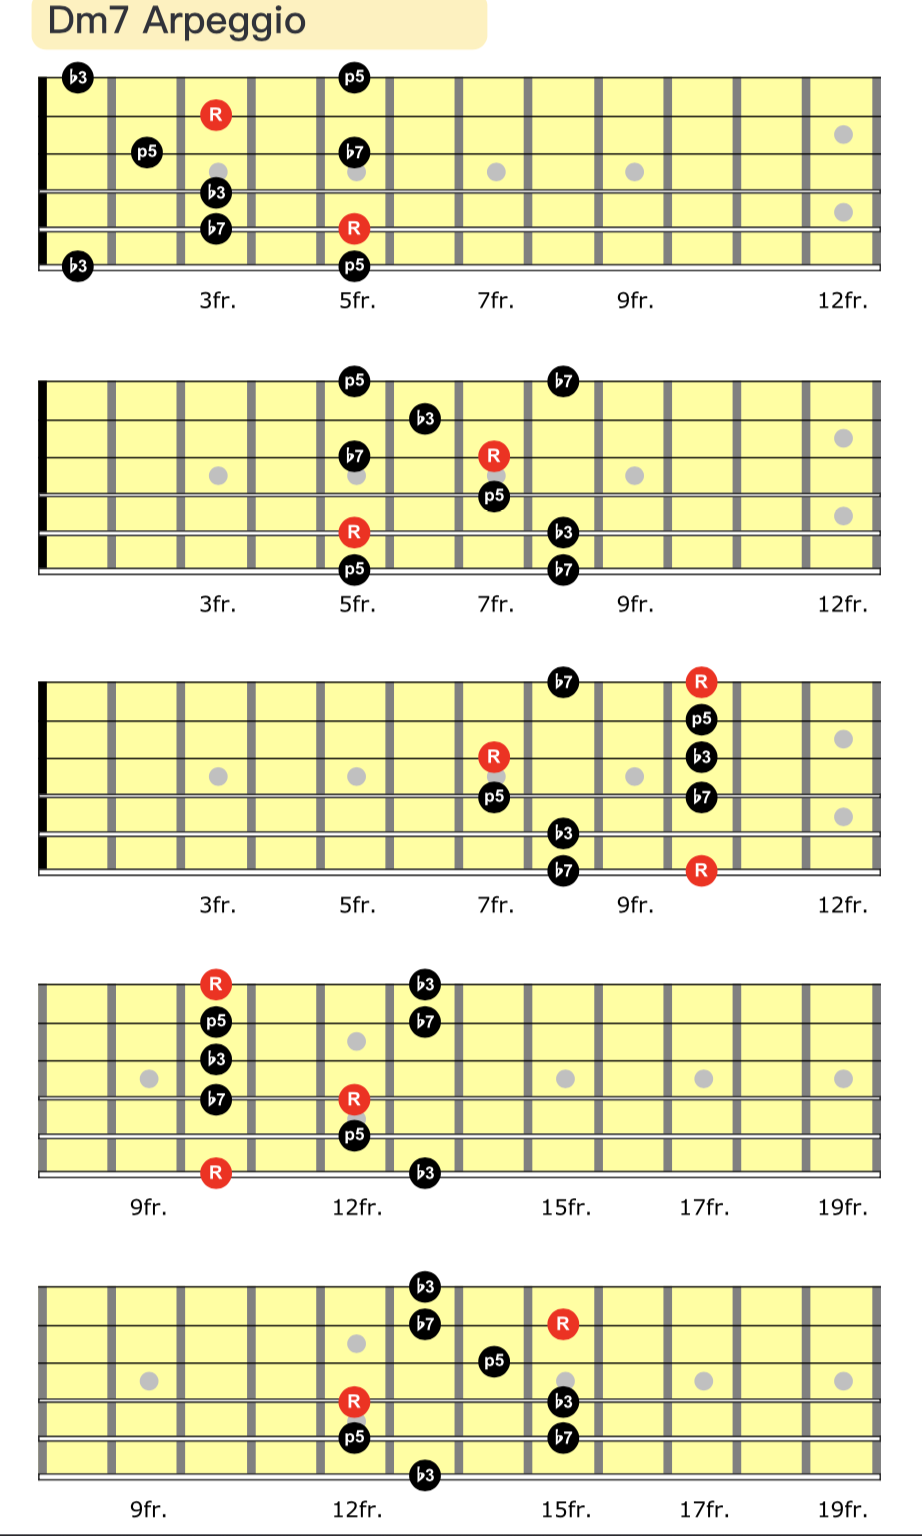
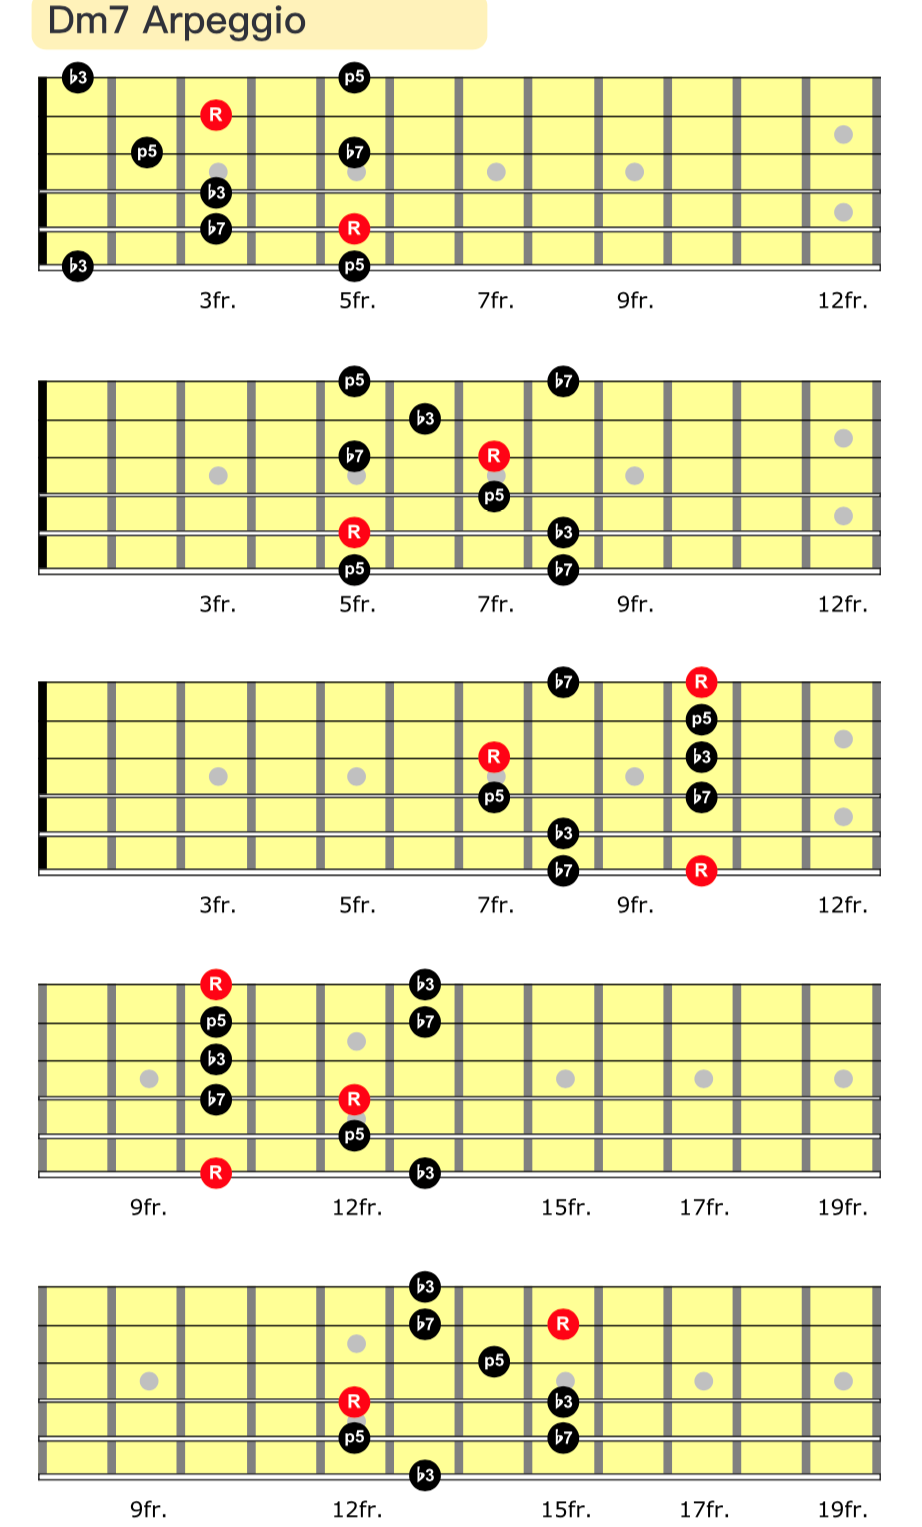
2

diff --git a/p/所有音阶和弦琶音素材/index.html b/p/所有音阶和弦琶音素材/index.html
@@ -1,18 +1,18 @@
 <!DOCTYPE html>
 <html lang="zh-cn" dir="ltr">
     <head><meta charset='utf-8'>
-<meta name='viewport' content='width=device-width, initial-scale=1'><meta name='description' content="\r📖 目录（点击展开）\r音阶\nMajor（大调音阶） Minor（自然小调音阶） Dorian Jazz Minor（爵士旋律小调音阶） Harmonic Minor（和声小调） 琶音\nMajor（大三和弦） Minor（小三和弦） Major 7（大七和弦） Minor 7（小七和弦） Dominant 7（属七和弦） ⌀7（半减七和弦） Major 素材 和弦 音阶 琶音 ">
+<meta name='viewport' content='width=device-width, initial-scale=1'><meta name='description' content="\r📖 目录（点击展开）\r音阶\nMajor（大调音阶） Minor（自然小调音阶） Dorian Jazz Minor（爵士旋律小调音阶） Harmonic Minor（和声小调） 琶音\nMajor（大三和弦） Minor（小三和弦） Major 7（大七和弦） Minor 7（小七和弦） Dominant 7（属七和弦） ⌀7（半减七和弦） Major 素材 和弦 音阶 ">
 <title>所有音阶、和弦、琶音素材</title>
 
 <link rel='canonical' href='https://xiaoweihome.github.io/p/%E6%89%80%E6%9C%89%E9%9F%B3%E9%98%B6%E5%92%8C%E5%BC%A6%E7%90%B6%E9%9F%B3%E7%B4%A0%E6%9D%90/'>
 
 <link rel="stylesheet" href="/scss/style.min.f91c16411405e1fc5da08861fe7cf176ce361269bd69c3b7428065036933611e.css"><meta property='og:title' content="所有音阶、和弦、琶音素材">
-<meta property='og:description' content="\r📖 目录（点击展开）\r音阶\nMajor（大调音阶） Minor（自然小调音阶） Dorian Jazz Minor（爵士旋律小调音阶） Harmonic Minor（和声小调） 琶音\nMajor（大三和弦） Minor（小三和弦） Major 7（大七和弦） Minor 7（小七和弦） Dominant 7（属七和弦） ⌀7（半减七和弦） Major 素材 和弦 音阶 琶音 ">
+<meta property='og:description' content="\r📖 目录（点击展开）\r音阶\nMajor（大调音阶） Minor（自然小调音阶） Dorian Jazz Minor（爵士旋律小调音阶） Harmonic Minor（和声小调） 琶音\nMajor（大三和弦） Minor（小三和弦） Major 7（大七和弦） Minor 7（小七和弦） Dominant 7（属七和弦） ⌀7（半减七和弦） Major 素材 和弦 音阶 ">
 <meta property='og:url' content='https://xiaoweihome.github.io/p/%E6%89%80%E6%9C%89%E9%9F%B3%E9%98%B6%E5%92%8C%E5%BC%A6%E7%90%B6%E9%9F%B3%E7%B4%A0%E6%9D%90/'>
 <meta property='og:site_name' content='小威音乐工作室'>
 <meta property='og:type' content='article'><meta property='article:section' content='Post' /><meta property='article:published_time' content='2026-06-14T00:00:00&#43;00:00'/><meta property='article:modified_time' content='2026-06-14T00:00:00&#43;00:00'/><meta property='og:image' content='https://xiaoweihome.github.io/p/%E6%89%80%E6%9C%89%E9%9F%B3%E9%98%B6%E5%92%8C%E5%BC%A6%E7%90%B6%E9%9F%B3%E7%B4%A0%E6%9D%90/0.jpg' />
 <meta name="twitter:title" content="所有音阶、和弦、琶音素材">
-<meta name="twitter:description" content="\r📖 目录（点击展开）\r音阶\nMajor（大调音阶） Minor（自然小调音阶） Dorian Jazz Minor（爵士旋律小调音阶） Harmonic Minor（和声小调） 琶音\nMajor（大三和弦） Minor（小三和弦） Major 7（大七和弦） Minor 7（小七和弦） Dominant 7（属七和弦） ⌀7（半减七和弦） Major 素材 和弦 音阶 琶音 "><meta name="twitter:card" content="summary_large_image">
+<meta name="twitter:description" content="\r📖 目录（点击展开）\r音阶\nMajor（大调音阶） Minor（自然小调音阶） Dorian Jazz Minor（爵士旋律小调音阶） Harmonic Minor（和声小调） 琶音\nMajor（大三和弦） Minor（小三和弦） Major 7（大七和弦） Minor 7（小七和弦） Dominant 7（属七和弦） ⌀7（半减七和弦） Major 素材 和弦 音阶 "><meta name="twitter:card" content="summary_large_image">
     <meta name="twitter:image" content='https://xiaoweihome.github.io/p/%E6%89%80%E6%9C%89%E9%9F%B3%E9%98%B6%E5%92%8C%E5%BC%A6%E7%90%B6%E9%9F%B3%E7%B4%A0%E6%9D%90/0.jpg' />
     <link rel="shortcut icon" href="/favicon.png" />
 
@@ -468,20 +468,34 @@
 		data-flex-grow="75"
 		data-flex-basis="180px"
 	
+>
+<img src="/p/%E6%89%80%E6%9C%89%E9%9F%B3%E9%98%B6%E5%92%8C%E5%BC%A6%E7%90%B6%E9%9F%B3%E7%B4%A0%E6%9D%90/12.jpg"
+	width="791"
+	height="1064"
+	srcset="/p/%E6%89%80%E6%9C%89%E9%9F%B3%E9%98%B6%E5%92%8C%E5%BC%A6%E7%90%B6%E9%9F%B3%E7%B4%A0%E6%9D%90/12_hu6404617944565148157.jpg 480w, /p/%E6%89%80%E6%9C%89%E9%9F%B3%E9%98%B6%E5%92%8C%E5%BC%A6%E7%90%B6%E9%9F%B3%E7%B4%A0%E6%9D%90/12_hu10982187989266491442.jpg 1024w"
+	loading="lazy"
+	
+		alt="Lydian"
+	
+	
+		class="gallery-image" 
+		data-flex-grow="74"
+		data-flex-basis="178px"
+	
 ></p>
 <h2 id="琶音">琶音
-</h2><p><img src="/p/%E6%89%80%E6%9C%89%E9%9F%B3%E9%98%B6%E5%92%8C%E5%BC%A6%E7%90%B6%E9%9F%B3%E7%B4%A0%E6%9D%90/6.png"
-	width="727"
-	height="266"
-	srcset="/p/%E6%89%80%E6%9C%89%E9%9F%B3%E9%98%B6%E5%92%8C%E5%BC%A6%E7%90%B6%E9%9F%B3%E7%B4%A0%E6%9D%90/6_hu16057613497613695782.png 480w, /p/%E6%89%80%E6%9C%89%E9%9F%B3%E9%98%B6%E5%92%8C%E5%BC%A6%E7%90%B6%E9%9F%B3%E7%B4%A0%E6%9D%90/6_hu12329280348566458564.png 1024w"
+</h2><p><img src="/p/%E6%89%80%E6%9C%89%E9%9F%B3%E9%98%B6%E5%92%8C%E5%BC%A6%E7%90%B6%E9%9F%B3%E7%B4%A0%E6%9D%90/6.jpg"
+	width="792"
+	height="1122"
+	srcset="/p/%E6%89%80%E6%9C%89%E9%9F%B3%E9%98%B6%E5%92%8C%E5%BC%A6%E7%90%B6%E9%9F%B3%E7%B4%A0%E6%9D%90/6_hu8752100329989304969.jpg 480w, /p/%E6%89%80%E6%9C%89%E9%9F%B3%E9%98%B6%E5%92%8C%E5%BC%A6%E7%90%B6%E9%9F%B3%E7%B4%A0%E6%9D%90/6_hu15616871542646828005.jpg 1024w"
 	loading="lazy"
 	
 		alt="大三和弦"
 	
 	
 		class="gallery-image" 
-		data-flex-grow="273"
-		data-flex-basis="655px"
+		data-flex-grow="70"
+		data-flex-basis="169px"
 	
 >
 <img src="/p/%E6%89%80%E6%9C%89%E9%9F%B3%E9%98%B6%E5%92%8C%E5%BC%A6%E7%90%B6%E9%9F%B3%E7%B4%A0%E6%9D%90/8.png"
@@ -559,24 +573,24 @@
 	
 ></p>
 <h2 id="琶音-1">琶音
-</h2><p><img src="/p/%E6%89%80%E6%9C%89%E9%9F%B3%E9%98%B6%E5%92%8C%E5%BC%A6%E7%90%B6%E9%9F%B3%E7%B4%A0%E6%9D%90/7.png"
-	width="705"
-	height="261"
-	srcset="/p/%E6%89%80%E6%9C%89%E9%9F%B3%E9%98%B6%E5%92%8C%E5%BC%A6%E7%90%B6%E9%9F%B3%E7%B4%A0%E6%9D%90/7_hu12393530087235618752.png 480w, /p/%E6%89%80%E6%9C%89%E9%9F%B3%E9%98%B6%E5%92%8C%E5%BC%A6%E7%90%B6%E9%9F%B3%E7%B4%A0%E6%9D%90/7_hu3327435899813301211.png 1024w"
+</h2><p><img src="/p/%E6%89%80%E6%9C%89%E9%9F%B3%E9%98%B6%E5%92%8C%E5%BC%A6%E7%90%B6%E9%9F%B3%E7%B4%A0%E6%9D%90/7.jpg"
+	width="792"
+	height="1122"
+	srcset="/p/%E6%89%80%E6%9C%89%E9%9F%B3%E9%98%B6%E5%92%8C%E5%BC%A6%E7%90%B6%E9%9F%B3%E7%B4%A0%E6%9D%90/7_hu4300836056457444319.jpg 480w, /p/%E6%89%80%E6%9C%89%E9%9F%B3%E9%98%B6%E5%92%8C%E5%BC%A6%E7%90%B6%E9%9F%B3%E7%B4%A0%E6%9D%90/7_hu16384113447222401762.jpg 1024w"
 	loading="lazy"
 	
 		alt="小三和弦"
 	
 	
 		class="gallery-image" 
-		data-flex-grow="270"
-		data-flex-basis="648px"
+		data-flex-grow="70"
+		data-flex-basis="169px"
 	
 >
 <img src="/p/%E6%89%80%E6%9C%89%E9%9F%B3%E9%98%B6%E5%92%8C%E5%BC%A6%E7%90%B6%E9%9F%B3%E7%B4%A0%E6%9D%90/9.png"
 	width="922"
-	height="1536"
-	srcset="/p/%E6%89%80%E6%9C%89%E9%9F%B3%E9%98%B6%E5%92%8C%E5%BC%A6%E7%90%B6%E9%9F%B3%E7%B4%A0%E6%9D%90/9_hu8108165055534460173.png 480w, /p/%E6%89%80%E6%9C%89%E9%9F%B3%E9%98%B6%E5%92%8C%E5%BC%A6%E7%90%B6%E9%9F%B3%E7%B4%A0%E6%9D%90/9_hu9132421203868796819.png 1024w"
+	height="1527"
+	srcset="/p/%E6%89%80%E6%9C%89%E9%9F%B3%E9%98%B6%E5%92%8C%E5%BC%A6%E7%90%B6%E9%9F%B3%E7%B4%A0%E6%9D%90/9_hu14194017839283324926.png 480w, /p/%E6%89%80%E6%9C%89%E9%9F%B3%E9%98%B6%E5%92%8C%E5%BC%A6%E7%90%B6%E9%9F%B3%E7%B4%A0%E6%9D%90/9_hu13957860849367388556.png 1024w"
 	loading="lazy"
 	
 		alt="小七和弦"